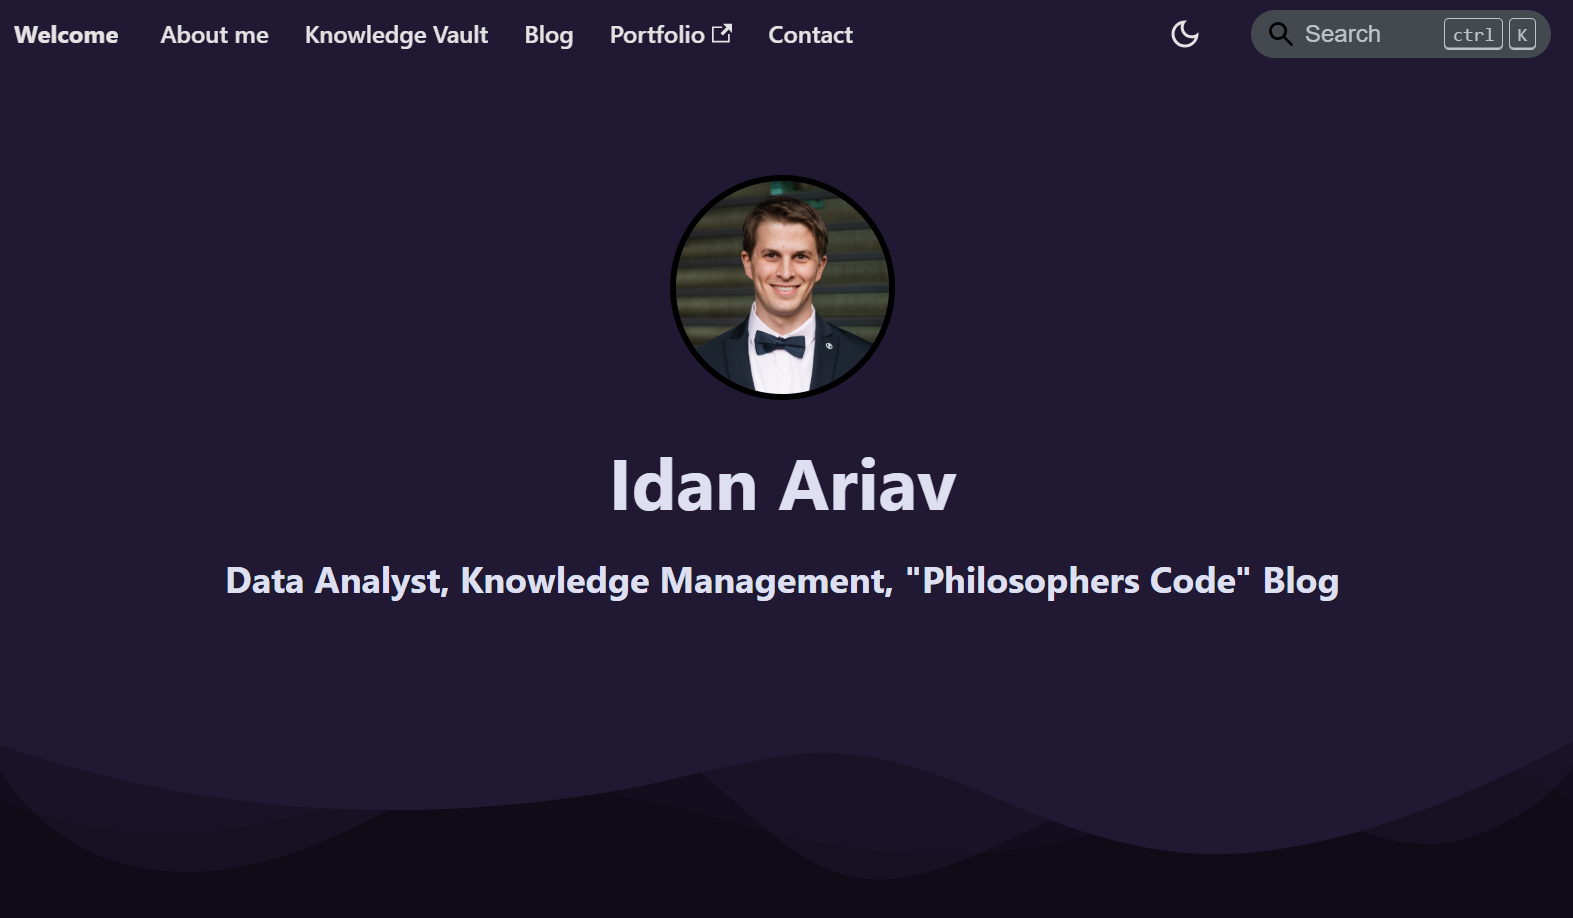
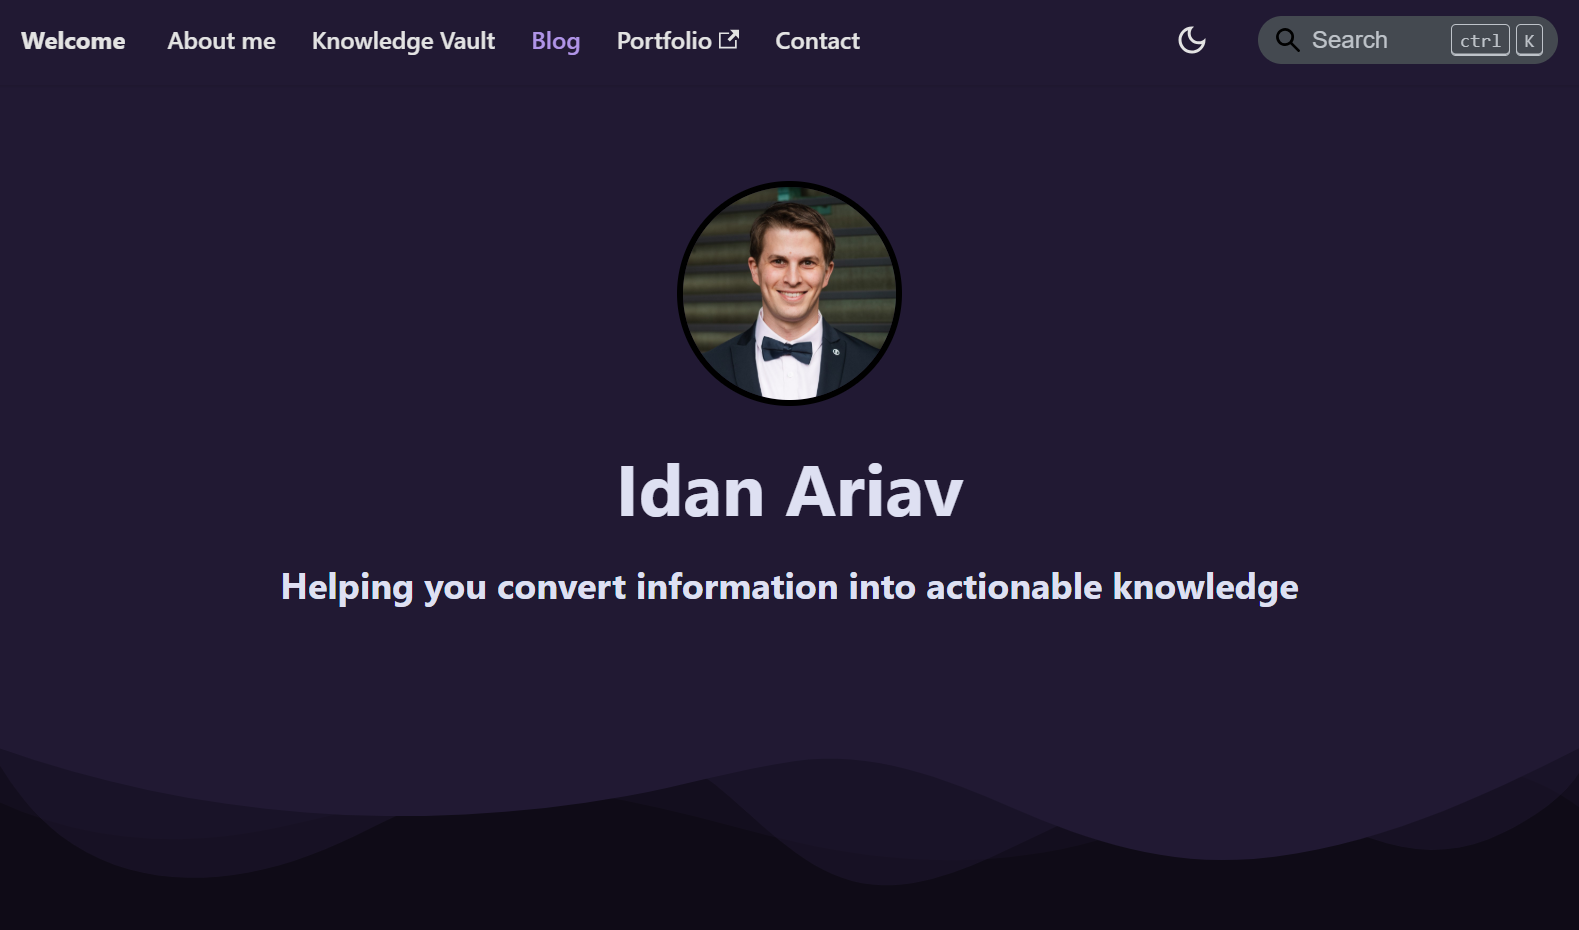
shorter introduction, update image

diff --git a/src/components/HomepageFeatures/index.js b/src/components/HomepageFeatures/index.js
@@ -7,12 +7,11 @@ const FeatureList = [
   {
     title: 'How can I help you?',
     link: 'https://docs.google.com/forms/d/e/1FAIpQLSegq_JHmtPSa7oXblPg4866E72IuEFVFZEeAKgGBqPQJo97RA/viewform?usp=sf_link',
-    Svg: require('@site/static/general/resume_illusration.svg').default,
+    Svg: require('@site/static/general/mind_map_illusration.svg').default,
     description: (
       <>
-        My goal is to help you make sense of the information that matters most to you.<br />
-        I specialize in knowledge management systems that transforms information into clear, actionable insights.<br />
-        Feel free to reach out if you have any questions or need assistance.
+        I help you turn important information into clear, actionable insights through effective knowledge management systems — reach out anytime.
+
       </>
     ),
   },
@@ -22,9 +21,8 @@ const FeatureList = [
     Svg: require('@site/static/general/knowledge_illusration.svg').default,
     description: (
       <>
-        I believe in the power of sharing knowledge to create a positive impact.<br />
-        My knowledge vault is a collection of resources, insights, and tools that I have found valuable.<br />
-        I invite you to explore and learn from my experiences.
+        I share my knowledge vault — a collection of valuable resources and insights — to inspire learning and positive impact.
+
       </>
     ),
   },
@@ -34,9 +32,7 @@ const FeatureList = [
     Svg: require('@site/static/general/newsletter_illusation.svg').default,
     description: (
       <>
-      Practical philosophy for everyday life, turning complex ideas
-      into tools for happiness, growth and clarity.<br />
-      Expand your mind and join the journey of self-discovery.
+      I explore practical philosophy to turn complex ideas into tools for happiness, growth, and clarity - join me on the journey of self-discovery.
       </>
     ),
   },
